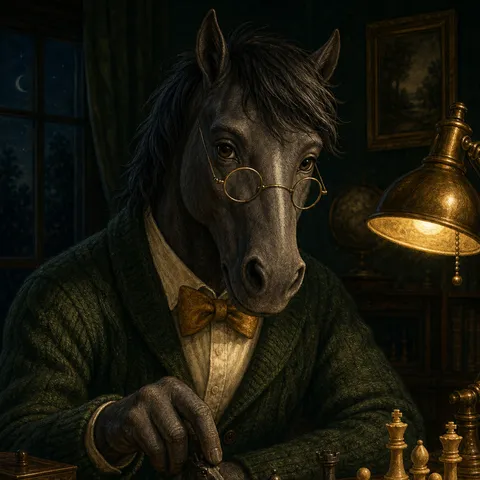
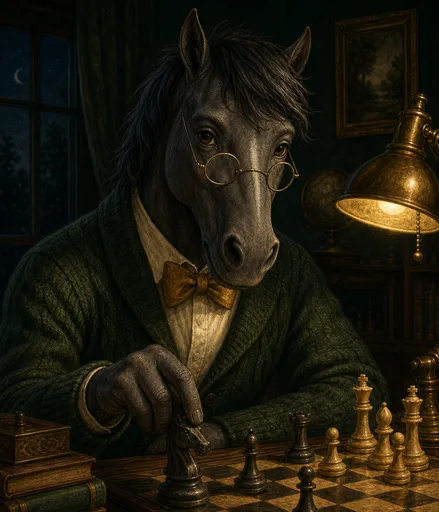
style(button): botão primário VERDE (sem o ouro do 9-slice) + retrato sem corte
Feedback do dono: "ainda está amarelo" (a moldura 9-slice do botão era dourada)
e "imagem do professor cortando partes importantes".
- Botão primário: troca a placa 9-slice dourada (moldura-botao-primario-slice.webp)
  por gradiente VERDE + sombra CSS, app-wide (uniforme). Remove os assets dourados
  agora órfãos.
- Retrato do herói: reconvertido SEM corte (fit:inside, fonte 1161x1355 vertical) +
  box vertical 112x131 com object-fit:contain → mostra a pintura inteira.

Gates: vitest 1348/1348, build, lint — verdes.

diff --git a/src/index.css b/src/index.css
@@ -1255,14 +1255,15 @@ textarea {
   padding: 16px;
 }
 
-/* Retrato premium do Professor: moldura RETANGULAR arredondada (o círculo cortava
-   a cena e perdia detalhe). Mostra a pintura inteira; aro verde (uniforme com o app). */
+/* Retrato premium do Professor: box VERTICAL na proporção da pintura (1161x1355)
+   + object-fit:contain → mostra a imagem INTEIRA, sem cortar nada. Aro verde. */
 .today-hero-portrait {
   width: 112px;
-  height: 116px;
+  height: 131px;
   border-radius: var(--radius-md);
-  object-fit: cover;
+  object-fit: contain;
   object-position: center;
+  background: var(--paper-deep);
   border: 2px solid var(--green-300);
   box-shadow: 0 2px 8px rgba(18, 42, 34, 0.28);
 }
@@ -1322,8 +1323,7 @@ textarea {
   align-self: center;
 }
 
-/* CTA primária do herói: já usa a moldura 9-slice pintada (.button-link:not(.secondary-link),
-   /art/moldura-botao-primario-slice.webp) — aqui só a fazemos crescer para ser a ação dominante. */
+/* CTA primária do herói: herda o botão verde global; aqui só cresce para dominar a linha. */
 .today-hero-train {
   flex: 1 1 auto;
 }
@@ -1373,7 +1373,7 @@ textarea {
   }
   .today-hero-portrait {
     width: 100px;
-    height: 100px;
+    height: 117px;
   }
   .today-hero-title {
     font-size: 1.22rem;
@@ -2629,34 +2629,32 @@ li.diploma-row {
   object-position: bottom center;
 }
 
-/* Botões com placa pintada em 9-slice: cantos chanfrados ficam nítidos em
-   qualquer largura/altura (o asset recortado tem alpha nos chanfros, então a
-   placa assenta sobre qualquer superfície, clara ou escura). A sombra usa
-   drop-shadow — box-shadow retangular vazaria nos cantos transparentes. */
+/* Botão primário VERDE (decisão do dono 2026-06-30: a placa pintada era dourada
+   e destoava — verde é a identidade e fica uniforme). Gradiente + sombra CSS. */
 button:not(.secondary-button):not(.danger-button):not(.link-button):not(.nav-button):not(.block-carousel-dot),
 .button-link:not(.secondary-link) {
-  border: 12px solid transparent;
-  border-image: url('/art/moldura-botao-primario-slice.webp') 48 fill / 12px stretch;
-  background: none;
+  border: 1px solid var(--green-800);
+  border-image: none;
+  background: linear-gradient(180deg, var(--green-600), var(--green-700));
   color: #fff;
-  padding: 2px 8px;
-  box-shadow: none;
-  filter: drop-shadow(0 2px 3px rgba(18, 42, 34, 0.28));
+  padding: 9px 16px;
+  box-shadow: var(--shadow-btn);
+  filter: none;
 }
 
 button:not(.secondary-button):not(.danger-button):not(.link-button):not(.nav-button):not(.block-carousel-dot):hover,
 .button-link:not(.secondary-link):hover {
-  background: none;
-  box-shadow: none;
-  filter: drop-shadow(0 4px 8px rgba(18, 42, 34, 0.32)) brightness(1.05);
+  background: linear-gradient(180deg, var(--green-700), var(--green-800));
+  box-shadow: var(--shadow-btn-hover);
+  filter: none;
   transform: translateY(-1px);
 }
 
 button:not(.secondary-button):not(.danger-button):not(.link-button):not(.nav-button):active,
 .button-link:not(.secondary-link):active {
-  filter: drop-shadow(0 1px 2px rgba(18, 42, 34, 0.3)) brightness(0.97);
+  filter: none;
   transform: translateY(0);
-  box-shadow: none;
+  box-shadow: var(--shadow-btn);
 }
 
 button:not(.secondary-button):not(.danger-button):not(.link-button):not(.nav-button):disabled {